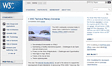
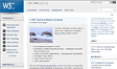
mission-04 완성

diff --git a/mission-04/grid.css b/mission-04/grid.css
@@ -3,8 +3,9 @@
   padding: 0;
   border: 0;
   font-size: 100%;
-  font: inherit;
-  vertical-align: baseline;
+  vertical-align: top;
+  list-style: none;
+  box-sizing: border-box;
 }
 
 a {
@@ -12,3 +13,71 @@ a {
   color: inherit;
 }
 
+.news {
+  display: grid;
+  grid-template-columns: repeat(12, 1fr);
+  grid-template-rows: auto;
+  gap: 12px;
+  margin: 20px auto;
+  width: 380px;
+  height: 200px;
+  grid-template-areas:
+    "title title . . . . . . . . plus plus"
+    "line line line line line line line line line line line line"
+    "img img img img contents contents contents contents contents contents contents contents";
+}
+
+.news-title {
+  grid-area: title;
+  color: #ed552f;
+}
+
+.news-plus {
+  grid-area: plus;
+  width: 57px;
+}
+
+.news-plus i {
+  color: #447231;
+}
+
+.news-plus a img {
+  width: 16px;
+  height: 16px;
+}
+
+.news-line {
+  grid-area: line;
+  width: 266px;
+  height: 1px;
+  background: linear-gradient(90deg, #a9a9a9 -1.32%, #ffffff 100%);
+}
+
+.news-w3c {
+  grid-area: img;
+  display: block;
+  text-align: center;
+  margin-top: 12px;
+}
+
+.news-w3c img {
+  box-shadow: 0px 15px 15px 3px #aaa;
+}
+
+.news-w3c figcaption {
+  margin-top: 16px;
+}
+
+.news-contents {
+  grid-area: contents;
+  margin-top: 12px;
+}
+
+.news-contents li:nth-child(2) {
+  margin-top: 4px;
+}
+
+.news-contents li:last-child {
+  text-align: justify;
+  margin-top: 12px;
+}

diff --git a/mission-04/README.md b/mission-04/README.md
@@ -1,0 +1,24 @@
+# Mission-04
+그리드 완성
+
+![image](../mission-01/images/mission-04_complete.png)
+
+## Markup & CSS
+0. section(전체 틀) : `.news` 전체 틀로 섹션의 너비와 높이, 그리드를 지정함.
+1. header(타이틀) : `.news-title` 새소식, `.news-plus` 더보기 아이콘과 링크로 구성.
+2. line(구분선) : 타이틀 밑의 구분선은 백그라운드 그라디언트 속성을 사용하여 구성함.
+3-1. figure(이미지) : `.news-w3c` 피규어 안에 `img`, `figcaption`으로 구성함.
+3-2. ul>li(텍스트 영역) : `.news-contents` h3, time, p 태그를 사용하여 텍스트 배치.
+
+## Grid
+그리드는 12columes으로 위에서부터 아래로
+1. header
+2. line
+3. img+text 영역으로 배치된다
+
+```
+grid-template-areas:
+    "title title . . . . . . . . plus plus"
+    "line line line line line line line line line line line line"
+    "img img img img contents contents contents contents contents contents contents contents";
+```
